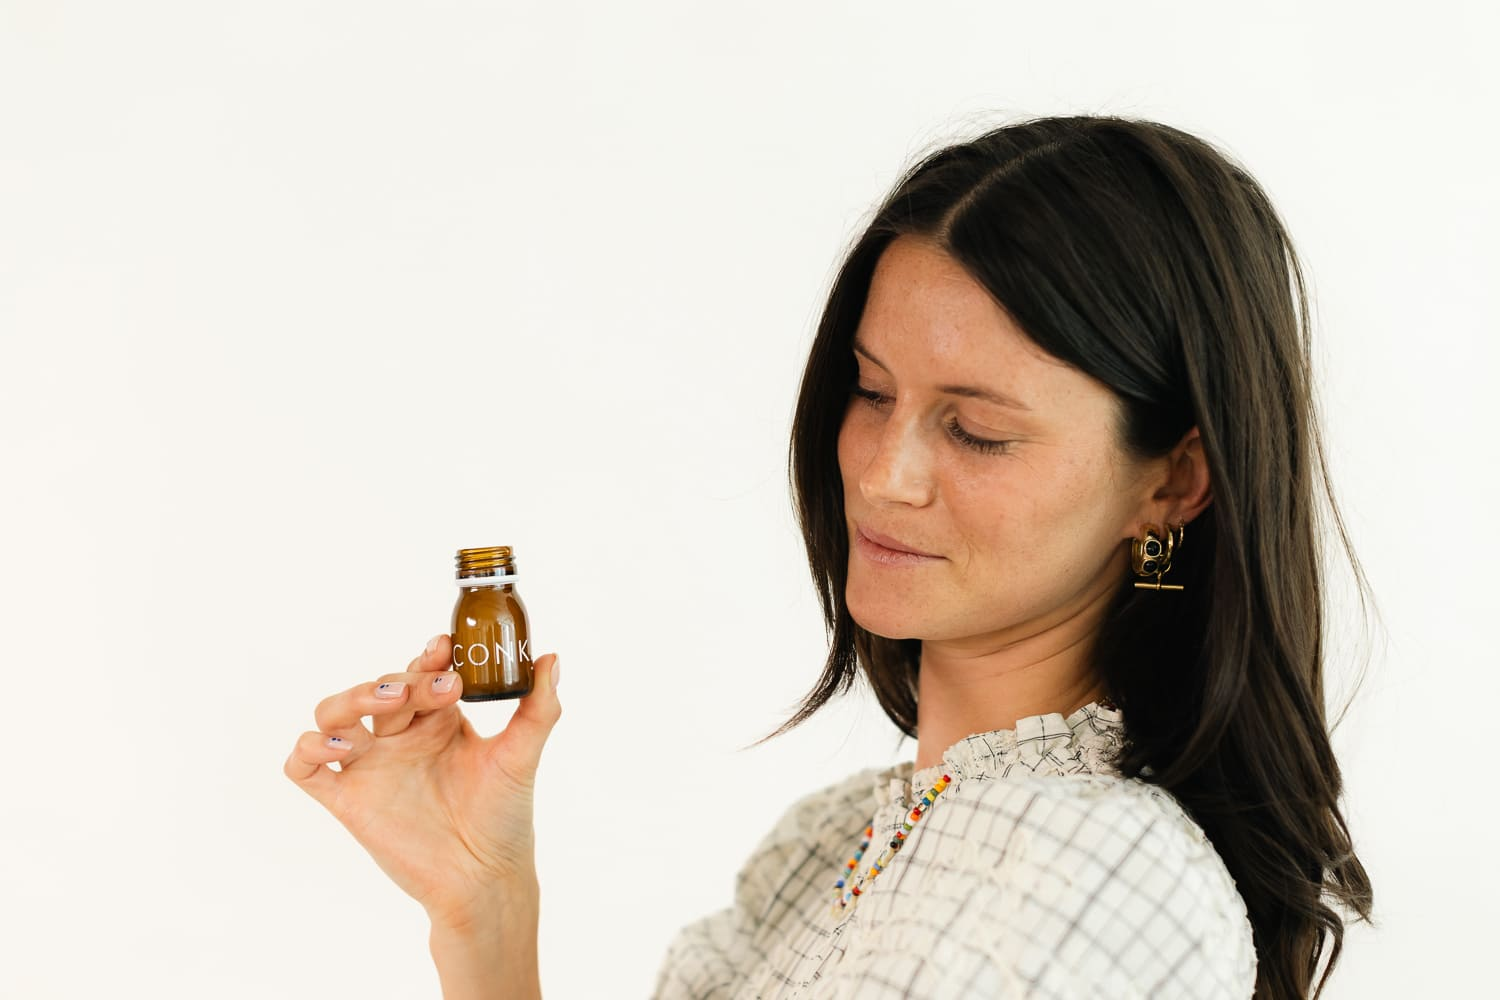
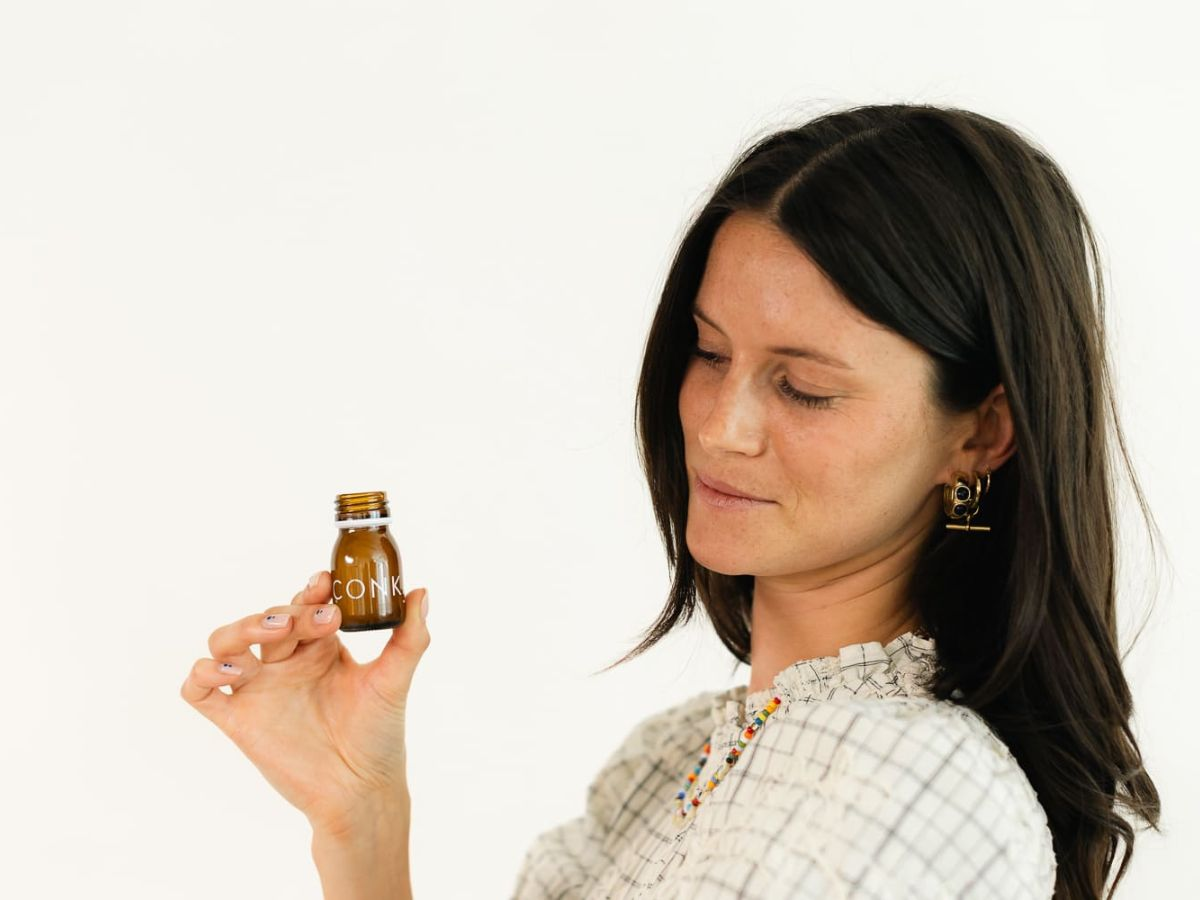
fix: address Section 4 perf regression on /startv2
Four changes against the perf 65 / LCP 5.9s / TBT 280ms Lighthouse
reading after Section 4 shipped: enable optimizeCss for critical-CSS
inlining, prune ~80 lines of dead .story-* CSS from globals.css,
code-split IngredientsGrid via dynamic() so its 148ms hydration task
moves off the initial TBT window, and re-export the hero LCP image at
1200x900 to beat the original bytes without the 720x540 blur.

diff --git a/app/globals.css b/app/globals.css
@@ -167,82 +167,6 @@ body {
   animation: fade-in-scale 0.3s ease-out forwards;
 }
 
-/* ===== OUR STORY PAGE - Scroll Snap Experience ===== */
-
-/* Main scroll container */
-.story-scroll-container {
-  scroll-snap-type: y mandatory;
-  overflow-y: scroll;
-  height: 100vh;
-  scroll-behavior: smooth;
-}
-
-/* Hide scrollbar for story container while allowing scroll */
-.story-scroll-container {
-  -ms-overflow-style: none;
-  scrollbar-width: none;
-}
-
-.story-scroll-container::-webkit-scrollbar {
-  display: none;
-}
-
-/* Individual story sections */
-.story-section {
-  scroll-snap-align: start;
-  scroll-snap-stop: always;
-  min-height: 100vh;
-  display: flex;
-  flex-direction: column;
-  justify-content: center;
-}
-
-/* Story theme variants */
-.story-light {
-  --background: var(--color-white);
-  --foreground: var(--color-black);
-  background: var(--color-white);
-  color: var(--color-black);
-}
-
-.story-dark {
-  --background: var(--color-black);
-  --foreground: var(--color-white);
-  background: var(--color-black);
-  color: var(--color-white);
-}
-
-/* Parallax text effect */
-.parallax-text {
-  will-change: transform;
-  transition: transform 0.1s ease-out;
-}
-
-/* Story section counter styling */
-.story-counter {
-  font-family: var(--font-jetbrains-mono), monospace;
-  letter-spacing: 0.1em;
-}
-
-/* Progress dots for desktop navigation */
-.story-progress-dot {
-  width: 12px;
-  height: 12px;
-  border-radius: 50%;
-  border: 2px solid currentColor;
-  transition: all 0.3s ease;
-  cursor: pointer;
-}
-
-.story-progress-dot.active {
-  background: currentColor;
-  transform: scale(1.2);
-}
-
-.story-progress-dot:hover {
-  transform: scale(1.1);
-}
-
 /* Scroll indicator animation */
 @keyframes bounce-slow {
   0%,
@@ -300,23 +224,6 @@ body {
 }
 .stagger-4 {
   animation-delay: 0.4s;
-}
-
-/* Quote styling */
-.story-quote {
-  position: relative;
-  padding-left: 1.5rem;
-}
-
-.story-quote::before {
-  content: '"';
-  position: absolute;
-  left: 0;
-  top: -0.5rem;
-  font-size: 3rem;
-  font-family: var(--font-jetbrains-mono), monospace;
-  opacity: 0.3;
-  line-height: 1;
 }
 
 /* Marquee animation for Founding Member banner */

diff --git a/app/startv2/page.tsx b/app/startv2/page.tsx
@@ -1,4 +1,5 @@
 import type { Metadata } from "next";
+import dynamic from "next/dynamic";
 import Image from "next/image";
 import Link from "next/link";
 import Navigation from "../components/navigation";
@@ -6,7 +7,11 @@ import Footer from "../components/footer";
 import { FUNNEL_URL } from "@/app/lib/landingConstants";
 import AnimatedStat from "./AnimatedStat";
 import CaffeineCurves from "./CaffeineCurves";
-import IngredientsGrid from "./IngredientsGrid";
+
+// Code-split below-the-fold island: hydration drops out of initial TBT window.
+const IngredientsGrid = dynamic(() => import("./IngredientsGrid"), {
+  loading: () => <div className="min-h-[1100px]" />,
+});
 
 export const metadata: Metadata = {
   title: "Try CONKA | Daily Nootropic Brain Shots",

diff --git a/next.config.ts b/next.config.ts
@@ -24,6 +24,10 @@ const securityHeaders = [
 ];
 
 const nextConfig: NextConfig = {
+  experimental: {
+    optimizeCss: true,
+  },
+
   images: {
     remotePatterns: [
       {

diff --git a/docs/development/featurePlans/landing-page-v2.1.md b/docs/development/featurePlans/landing-page-v2.1.md
@@ -227,4 +227,16 @@ Briefs get added here as each section gets picked up. Each brief captures: job, 
 - Selection ring uses `outline` (not `border`) with `outline-offset: 0` so the 2px selected-state line stacks immediately outside the permanent 1px border without causing layout shift.
 - Bottle card overlay copy moved out of the card and into its own row below; the previous absolute-positioned overlay collided with the centred bottle once the card became square.
 
-**Perf delta.** Not captured yet. Top levers carried from Section 3 still apply (render-blocking CSS for LCP, polyfill prune for FCP) but were not addressed in this round. Measurement should follow the Section 3 perf hygiene findings: median-of-5 single-run Lighthouse on Vercel preview, or move to PageSpeed Insights / Vercel Web Vitals for a controlled signal.
+**Perf delta.** Single Lighthouse run after Section 4 dropped to **perf 65, LCP 5.9 s, TBT 280 ms** (one sample, so don't over-index per the Section 3 hygiene finding). Report highlighted: (a) **render-blocking CSS is now three chunks (24.8 KiB, critical path 619 ms)** — the same lever the doc has been deferring, and `element-render-delay` blew out to 1,660 ms; (b) **new 148 ms long task at 6,912 ms in a 1st-party chunk** — IngredientsGrid hydration; (c) image regression — `ClearDrink.jpg` source reverted to 909×683 because the 720×540 resize was blurry on 2×/3× DPR displays.
+
+**Section 4 perf fixes (2026-05-28):** three changes shipped together to address the regression.
+
+1. **`experimental.optimizeCss: true` in `next.config.ts`** — enables Next 16's built-in critical-CSS inlining. Previously three CSS chunks (24.8 KiB total) blocked render on the critical path; with inlining, only the above-the-fold CSS is rendered synchronously and the rest is async-loaded. Build passed clean; no `critters` / `beasties` install needed on Next 16 (bundled internally). Expected impact: dent the 1,660 ms element-render-delay on LCP.
+
+2. **Dead CSS removed from `app/globals.css`** — `.story-*` rules (`.story-scroll-container`, `.story-section`, `.story-light`, `.story-dark`, `.story-counter`, `.story-progress-dot`, `.story-quote`) and `.parallax-text`, ~80 lines total, confirmed zero consumers across `app/`. Was leftover from a previous `/our-story` implementation. Animation helpers (`.animate-fade-in-up`, `.animate-bounce-slow`, `.stagger-1..4`, `.animate-sticky-phone-fade`) were kept because `QuizResultsOverview` still uses them. Sitewide CSS bundle should shrink ~3–5 KiB.
+
+3. **`IngredientsGrid` converted to `dynamic()` import in `app/startv2/page.tsx`** — mirrors the `CROFormulaSplitV2` pattern in `/start/page.tsx`. Same SSR'd HTML (no SEO loss, no paint flash), but the client JS is code-split and hydrated when the chunk loads rather than as part of the initial bundle. Placeholder reserves `min-h-[1100px]` to prevent CLS during client-side navigation. Expected impact: the 148 ms long task drops out of the TBT window (TBT measures within ~5 s of FCP).
+
+Outstanding levers still not addressed: polyfill prune (13.7 KiB, deferred — needs different mechanism than `.browserslistrc`), `ClearDrink.jpg` resize redo at higher resolution (1200×900 to satisfy 2× DPR mobile while still beating the original's bytes — to be re-exported from Canva and dropped in).
+
+Measurement protocol going forward: median-of-5 Lighthouse runs on Vercel preview, or PSI for a controlled signal. A single 65 is not signal.

diff --git a/docs/CHANGELOG.md b/docs/CHANGELOG.md
@@ -6,6 +6,14 @@
 
 ## May 2026
 
+### 2026-05-28 -- Landing page v2.1: Section 4 perf fixes (critical CSS, dead-code prune, dynamic import, hero asset re-export)
+
+After Section 4 shipped, a single Lighthouse mobile run on Vercel preview came back at perf 65, LCP 5.9s, TBT 280ms. The single number is noise per the Section 3 hygiene finding (±43 point swing on this bundle composition) but the diagnostic was clear: three render-blocking CSS chunks (24.8 KiB combined, 619ms critical path, 1,660ms `element-render-delay` on LCP) and a new 148ms long-task at 6.9s in the 1st-party chunk attributable to the `IngredientsGrid` client island hydrating. Four changes shipped together to address the regression. First, `experimental.optimizeCss: true` added to `next.config.ts`, enabling Next 16's bundled critical-CSS inlining (no `critters`/`beasties` install needed) so above-the-fold CSS goes inline and the rest is async-loaded, taking the render-blocking critical path off LCP. Second, dead CSS pruned from `app/globals.css`: the `.story-scroll-container`, `.story-section`, `.story-light`, `.story-dark`, `.story-counter`, `.story-progress-dot`, `.story-quote` and `.parallax-text` rules (~80 lines), all confirmed via grep to have zero consumers anywhere in `app/`. Leftover from a previous `/our-story` implementation, shipping sitewide via `globals.css` to every page. The `@keyframes` and `.animate-*` helpers (`animate-bounce-slow`, `animate-fade-in-up`, `animate-sticky-phone-fade`, `stagger-1..4`) were kept because `QuizResultsOverview` still uses them. Third, `IngredientsGrid` converted to a `dynamic()` import in `app/startv2/page.tsx`, mirroring the existing `CROFormulaSplitV2` pattern in `/start/page.tsx`: same default SSR behaviour (no SEO loss, no paint flash), but the JS chunk is code-split so its hydration cost lands outside the initial TBT window. `min-h-[1100px]` placeholder on the loading fallback reserves space against CLS on client-side navigation. Fourth, the hero LCP image `public/lifestyle/clear/ClearDrink.jpg` re-exported at 1200x900 (around 80 KB) from Canva, correcting the previous 720x540 export that was blurry on 2x/3x DPR mobile while still beating the original 1500x1000 at 69 KB for bytes. The doc `docs/development/featurePlans/landing-page-v2.1.md` updated with the Section 4 perf reading, the four fixes, and the outstanding lever still carried forward (polyfill prune, 13.7 KiB, `.browserslistrc` did not take effect and root cause is still unknown).
+
+**Modified:** `next.config.ts`, `app/globals.css`, `app/startv2/page.tsx`, `public/lifestyle/clear/ClearDrink.jpg`, `docs/development/featurePlans/landing-page-v2.1.md`.
+
+---
+
 ### 2026-05-28 -- Landing page v2.1: Section 4 polish, asset wiring, and brief documented
 
 Closing pass on Section 4 of /startv2 after live-review iteration with the founder. New bottle assets `public/formulas/conkaFlow/FlowNew.jpg` and `public/formulas/conkaClear/ClearNew.jpg` (both square 1:1 with off-white photographic backgrounds, shipped in prior commit `4606d8d`) replaced the transparent-PNG stand-ins. The bottle card container refactored from `aspect-[5/4]` to `aspect-square` with `object-cover` so the asset's own background IS the card surface (no rectangle edge mismatch); the previous inner positioning hacks (`w-44 h-[88%] -translate-y-2 scale-150`) were removed because they were sized for transparent PNGs and made the new JPGs look crooked. Product name plus tagline moved out of the card overlay and into a new row below since the centred bottle on a square card would collide with the bottom-left overlay. The per-formula intro line above the grid (e.g. "Six active ingredients...") was consolidated into the bottle-card tagline because both lines were saying the same thing within a 200px scroll window. Eight ingredient renders shipped in prior commit `539dca3` (VitaminC, AlphaGPC, NAcetylCysteine, GinkgoBiloba, Lecithin, AlphaLipoicAcid, VitaminB12, plus the generic `11.jpg` white-powder stand-in) were wired into a new per-formula `ASSET_FILENAME` lookup in `IngredientsGrid.tsx`; the unused `LemonEssentialOil.jpg` was renamed to `AlphaGPC.jpg` and repurposed since CONKA does not need the essential-oil render. Clear's grid order was rebalanced to put Glutathione first and Vitamin C seventh per the founder's product-led call. Three Clear tiles (`glutathione`, `alcar`, and originally `alpha-gpc`) use the `11.jpg` generic white-powder fallback since those forms match the typical commercial powder appearance. Also includes a Section 2 stat tweak the founder made during the session: "100,000+ cognitive tests done" replaced with "£500,000+ invested into research" to better support the made-it-possible story. The new Section 4 brief in `docs/development/featurePlans/landing-page-v2.1.md` documents the full shipped state (job, reference, layout, image direction including all asset mappings and fallbacks, copy including all claims to revisit, architecture, and the unaddressed perf levers carried forward from Section 3). The same doc also picks up the Section 3 perf hygiene notes that were waiting in the working tree, including the median-of-5 finding (single-run Lighthouse mobile against Vercel previews swings ±43 points at our bundle composition, far beyond the doc's previous ±15-20 hedge).